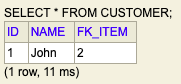
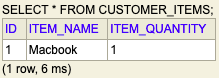
Changes to one-to-one mapping example

diff --git a/springboot-demo-mapping/src/main/java/com/spring/entity/Customer.java b/springboot-demo-mapping/src/main/java/com/spring/entity/Customer.java
@@ -1,6 +1,8 @@
 package com.spring.entity;
 import javax.persistence.CascadeType;
+import javax.persistence.Column;
 import javax.persistence.Entity;
+import javax.persistence.FetchType;
 import javax.persistence.GeneratedValue;
 import javax.persistence.GenerationType;
 import javax.persistence.Id;
@@ -11,48 +13,58 @@ import javax.persistence.Table;
 
 
 @Entity
-@Table
+@Table(name = "customer_details")
 public class Customer {
 	@Id
 	@GeneratedValue(strategy = GenerationType.AUTO)
 	private int id;
-	private String name;
-	
-	@OneToOne(cascade = CascadeType.ALL)
-	@JoinTable(name = "customer_item",
-			joinColumns = {@JoinColumn(name = "customer_id")},
-			inverseJoinColumns = {@JoinColumn(name = "item_id")})
-	private Item item;
-	
-		
-	public int getId() {
-		return id;
-	}
 
-	public void setId(int id) {
-		this.id = id;
-	}
+	@Column(name = "customer_name")
+	private String name;
+	@Column(name = "customer_email")
+	private String email;
+
+	
+	@OneToOne(fetch =FetchType.LAZY, cascade = CascadeType.ALL)
+	@JoinColumn(name = "item_id")
+	private Item item;
+
 
 	public String getName() {
 		return name;
 	}
 
+
 	public void setName(String name) {
 		this.name = name;
 	}
-	
-	public Item getItem() {
-		return item; 
+
+
+	public String getEmail() {
+		return email;
 	}
-	
+
+
+	public void setEmail(String email) {
+		this.email = email;
+	}
+
+
+	public Item getItem() {
+		return item;
+	}
+
+
 	public void setItem(Item item) {
 		this.item = item;
 	}
 
-	public Customer(String name) {
-		super();
+	public Customer(String name, String email, Item item) {
 		this.name = name;
+		this.email = email;
+		this.item = item;
 	}
-	
-	
+	public Customer() {
+		super();
+	}		
 }

diff --git a/springboot-demo-mapping/src/main/java/com/spring/entity/Item.java b/springboot-demo-mapping/src/main/java/com/spring/entity/Item.java
@@ -1,24 +1,69 @@
 package com.spring.entity;
 
+import javax.persistence.CascadeType;
+import javax.persistence.Column;
 import javax.persistence.Entity;
+import javax.persistence.FetchType;
 import javax.persistence.GeneratedValue;
+import javax.persistence.GenerationType;
 import javax.persistence.Id;
+import javax.persistence.OneToOne;
+import javax.persistence.Table;
 
-
+@Table(name = "customer_items")
 @Entity
 public class Item {
 	@Id
-	@GeneratedValue
+	@GeneratedValue(strategy = GenerationType.IDENTITY)
 	private int id;
+	@Column(name = "item_name")
 	private String name;
-	public Item(String name) {
+	@Column(name = "item_quantity")
+	private int qty;
+	
+	@OneToOne(fetch = FetchType.LAZY, cascade = CascadeType.ALL, mappedBy = "item")
+	private Customer customer;
+
+	public Item(String name, int qty) {
+		this.name = name;
+		this.qty = qty;
+	}
+
+	public Item() {
 		super();
+	}
+
+	public int getId() {
+		return id;
+	}
+
+	public void setId(int id) {
+		this.id = id;
+	}
+
+	public String getName() {
+		return name;
+	}
+
+	public void setName(String name) {
 		this.name = name;
 	}
-	
-//	@OneToOne(cascade = CascadeType.ALL,mappedBy = "item")
-//	private Customer customer;
-//	
-	
+
+	public int getQty() {
+		return qty;
+	}
+
+	public void setQty(int qty) {
+		this.qty = qty;
+	}
+
+	public Customer getCustomer() {
+		return customer;
+	}
+
+	public void setCustomer(Customer customer) {
+		this.customer = customer;
+	}
+
 	
 }

diff --git a/springboot-demo-mapping/src/main/java/com/spring/SpringbootDemoMappingApplication.java b/springboot-demo-mapping/src/main/java/com/spring/SpringbootDemoMappingApplication.java
@@ -16,8 +16,7 @@ public class SpringbootDemoMappingApplication implements CommandLineRunner {
 	
 	@Autowired
 	private CustomerRepository customerRepository;
-	@Autowired
-	private ItemRepository itemRepository;
+	
 
 	public static void main(String[] args)  {
 		SpringApplication.run(SpringbootDemoMappingApplication.class, args);
@@ -25,11 +24,17 @@ public class SpringbootDemoMappingApplication implements CommandLineRunner {
 
 	@Override
 	public void run(String... args) throws Exception {
-		Customer customer = new Customer("John");
-		Item item1 = new Item("Item1");
-		customer.setItem(item1);
+		Customer customer = new Customer();
+		customer.setName("Atharva Siddhabhatti");
+		customer.setEmail("atharvasiddhabhatti@gmail.com");
+		Item item = new Item();
+		item.setName("Macbook");
+		item.setQty(1);
+		customer.setItem(item);
+		item.setCustomer(customer);
 		customerRepository.save(customer);
 		
+
 		
 		
 	}

diff --git a/springboot-demo-mapping/README.md b/springboot-demo-mapping/README.md
@@ -29,9 +29,14 @@ run() method is run when the application is started. The data is added in the da
 ```java
 	@Override
 	public void run(String... args) throws Exception {
-		Customer customer = new Customer("John");
-		Item item1 = new Item("Item1");
-		customer.setItem(item1);
+		Customer customer = new Customer();
+		customer.setName("Atharva Siddhabhatti");
+		customer.setEmail("atharvasiddhabhatti@gmail.com");
+		Item item = new Item();
+		item.setName("Macbook");
+		item.setQty(1);
+		customer.setItem(item);
+		item.setCustomer(customer);
 		customerRepository.save(customer);
 		
 ```
@@ -41,24 +46,20 @@ run() method is run when the application is started. The data is added in the da
 Following annotations are used in the Customer Entity class to join two tables.Check the class file to view other entities.
 
 ```java
-@OneToOne(cascade = CascadeType.ALL)
-	@JoinTable(name = "customer_item",
-			joinColumns = {@JoinColumn(name = "customer_id")},
-			inverseJoinColumns = {@JoinColumn(name = "item_id")})
+@OneToOne(fetch =FetchType.LAZY, cascade = CascadeType.ALL)
+	@JoinColumn(name = "item_id")
 	private Item item;
 ```
 
 
 ### Item.java
-As JoinColumns and InverseJoinColumns are used in the customer class there is no need to add any annotation to join the entities.
-
+```java
+@OneToOne(fetch = FetchType.LAZY, cascade = CascadeType.ALL, mappedBy = "item")
+	private Customer customer;
+```
 ## Output
 ![alt Output1](./output/image1.png)
 ![alt Output2](./output/image2.png)
-![alt Output3](./output/image3.png)
-
-
-
 ## Configuration
 ### application.properties
 
